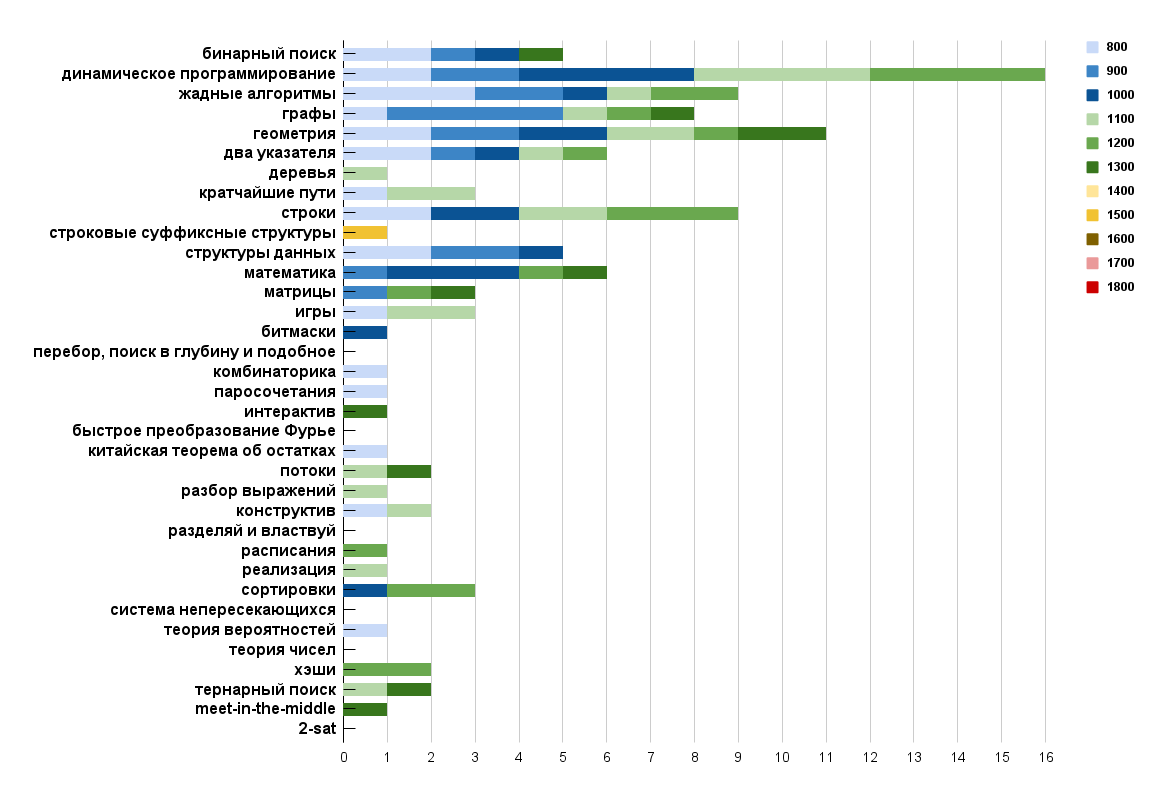
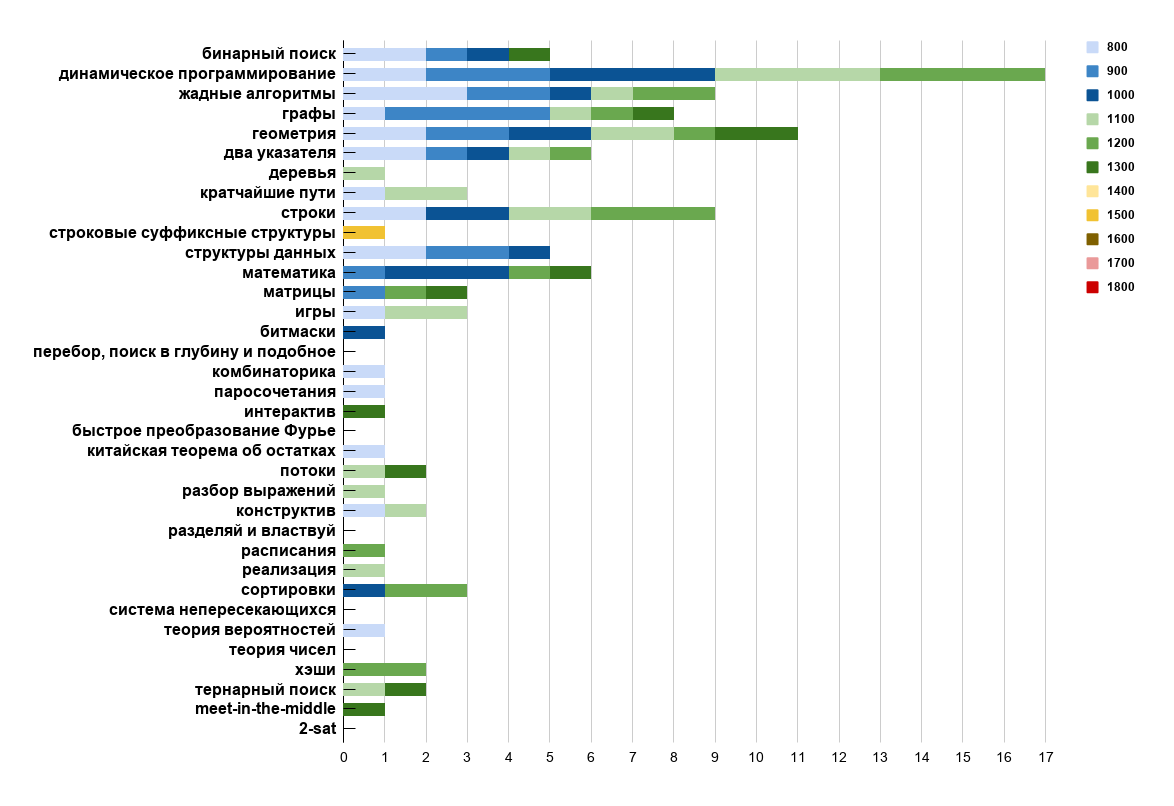
Solve 900 in dp.

diff --git a/ads/CodeforcesArchive/src/main/kotlin/dp/compl_900/1501B_Napoleon_cake.kt b/ads/CodeforcesArchive/src/main/kotlin/dp/compl_900/1501B_Napoleon_cake.kt
@@ -1,0 +1,21 @@
+package dp.compl_900
+
+fun main(){
+    val t = readln().toInt()
+    repeat(t){
+        val n = readln().toInt()
+        val a = readln().split(" ").map { it.toInt() }.toMutableList()
+        val ans = BooleanArray(n)
+        var locMin = (n - 1) - a[n - 1]
+        ans[n - 1] = locMin < (n - 1)
+        for (i in n-2 downTo 0){
+            locMin = kotlin.math.min(locMin, i - a[i])
+            ans[i] = locMin < i
+        }
+        ans.forEach {
+            print(if (it) 1 else 0)
+            print(" ")
+        }
+        println()
+    }
+}